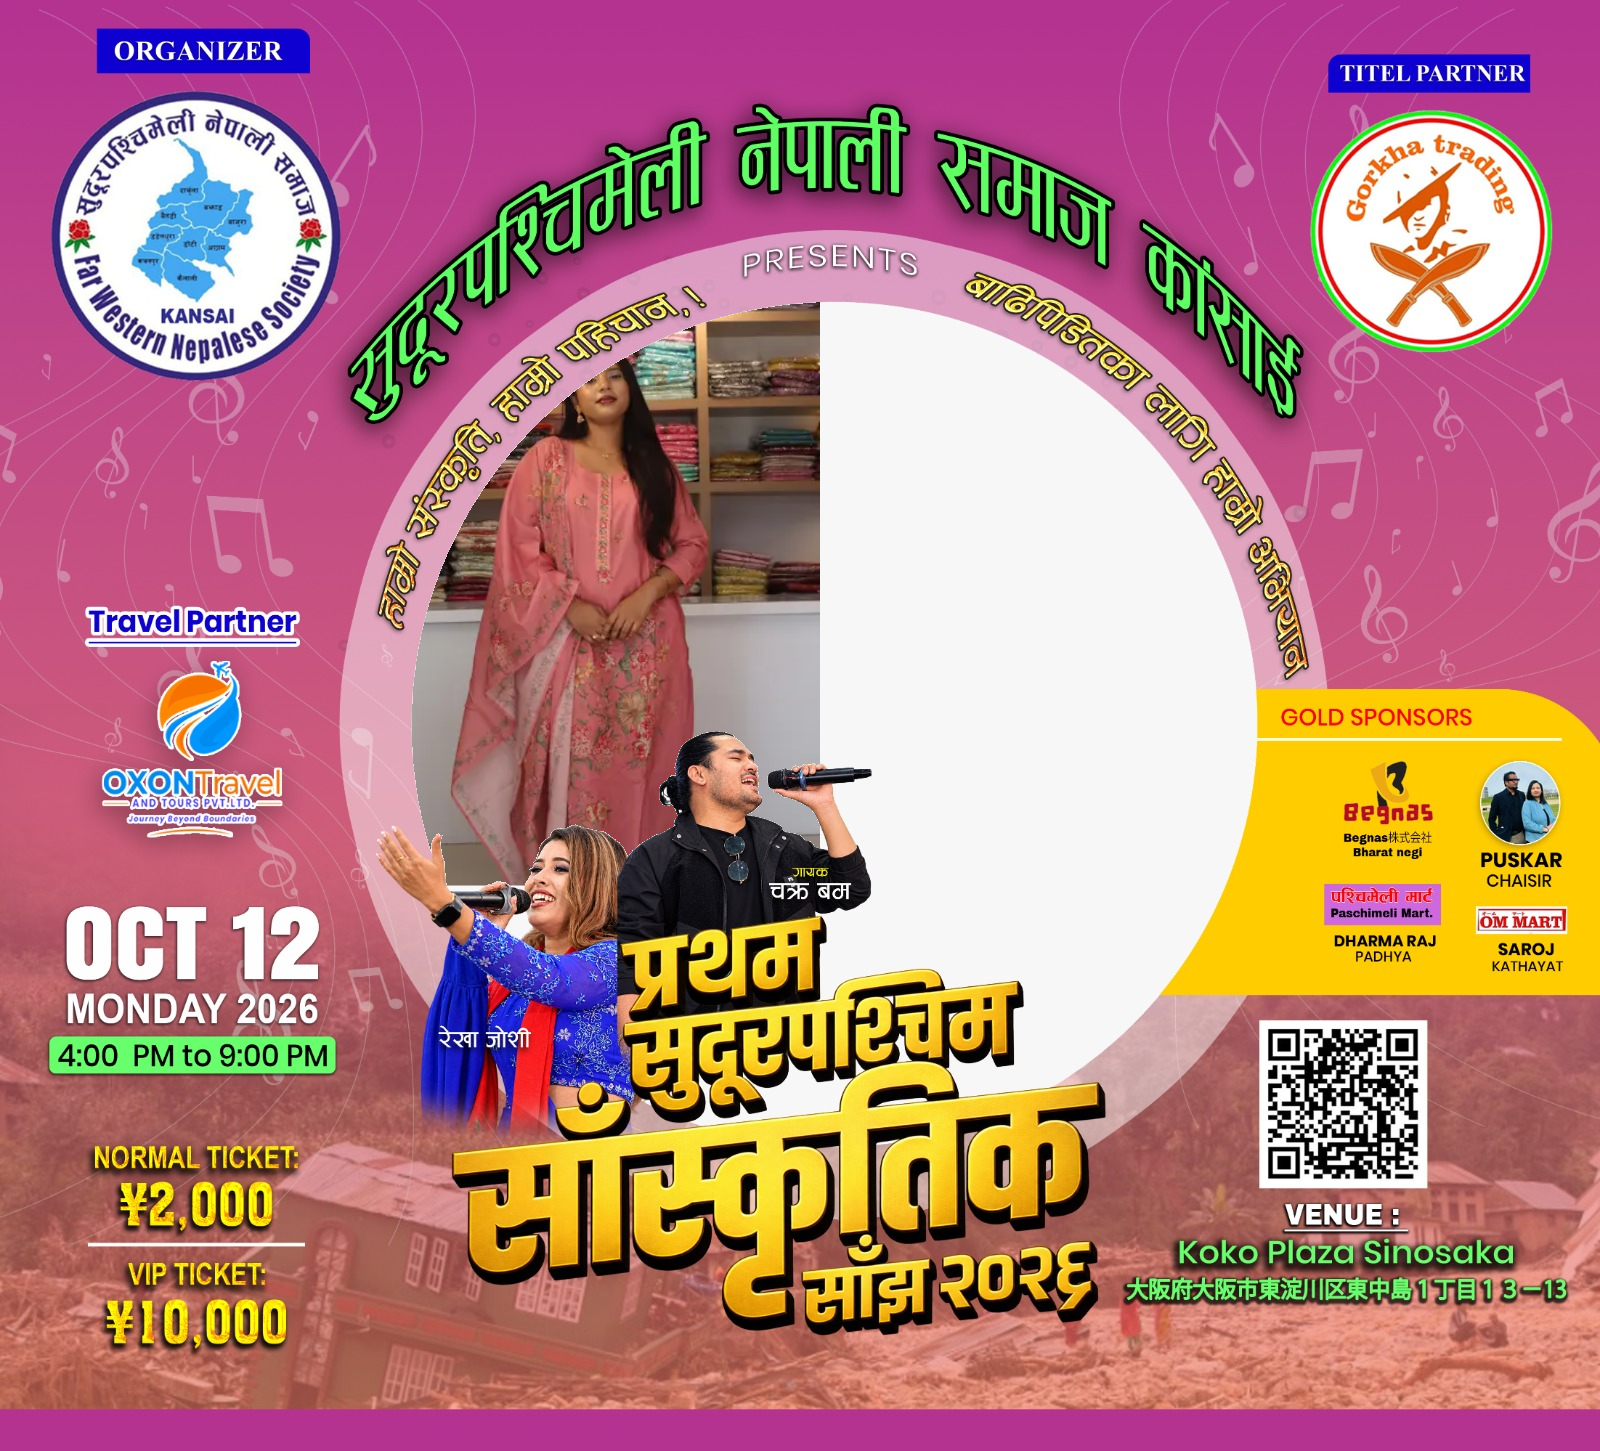
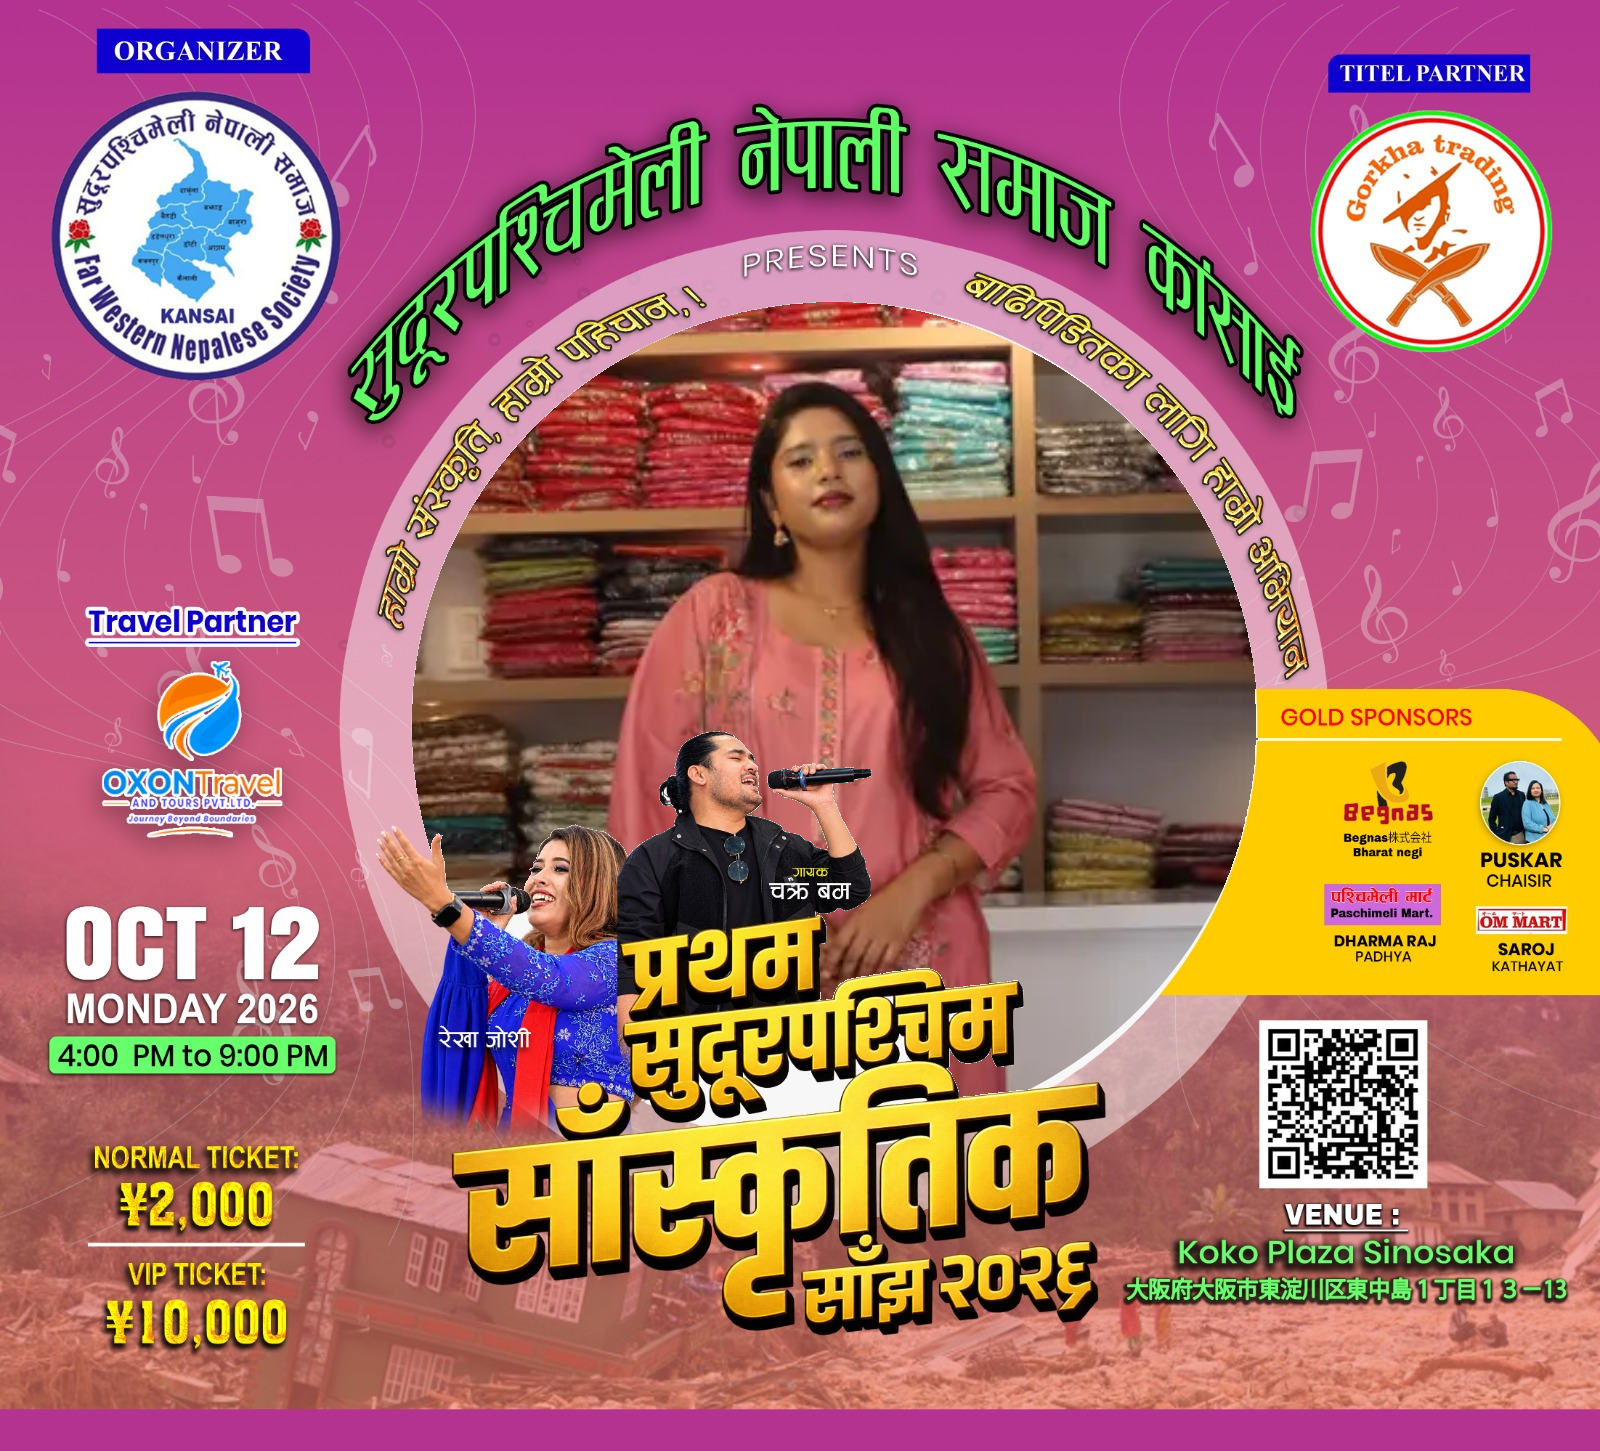
feat:final checkup

Changed region(s): [[0.25, 0.1861, 0.8125, 0.7753]]

diff --git a/script.js b/script.js
@@ -41,25 +41,28 @@
      shape  → "ellipse" | "rect" (rect uses rounded corners)
 ============================================================ */
 const CONFIG = {
-  posterSrc: 'image.png',
+  posterSrc: 'pdf.png',
 
   /**
-   * photoArea — bounding box of the empty photo slot.
-   * All values are in the ORIGINAL (natural) poster pixel space.
-   *
-   * These numbers are tuned for the generated "Special Event" poster
-   * where the oval sits centre-top.  Adjust if you use a different image.
+   * photoArea — bounding box of the photo slot.
+   * All values are in the ORIGINAL (5298 × 4804) poster pixel space.
    */
   photoArea: {
-    x:      380,   // px from left  in original poster
-    y:      300,   // px from top   in original poster
-    width:  880,   // px wide
-    height: 840,   // px tall
+    x:      1377,  // px from left in pdf.png
+    y:       990,  // px from top in pdf.png
+    width:  2786,  // px wide
+    height: 2780,  // px tall
     shape:  'ellipse',
     /** Corner radius (only used when shape === 'rect') */
     radius: 40,
   },
 };
+
+/**
+ * PHOTO_MASK_OVERLAP — extra pixels added to the photo clip ellipse radius
+ * so the photo extends slightly under the poster frame border.
+ */
+const PHOTO_MASK_OVERLAP = 10;
 
 /* ============================================================
    2. APPLICATION STATE
@@ -276,28 +279,16 @@ function renderPreview() {
 
   ctx.clearRect(0, 0, W, H);
 
-  // --- Pass 1: User photo is drawn FIRST as the bottom layer ---
-  // But we need the poster background too. Strategy:
-  // a) draw poster fully
-  // b) overwrite oval area with user photo
-  // c) composite poster overlay (oval punched out) on top
-
-  // Step A: Full poster background
-  if (state.posterImg) {
-    ctx.drawImage(state.posterImg, 0, 0, W, H);
-  }
-
-  // Step B: User photo clipped to oval (overwrites grey fill)
+  // 1. User photo is drawn in the background (clipped to the frame area)
   if (state.userImg) {
     drawClippedPhoto(ctx);
   }
 
-  // Step C: Poster overlay with oval punched out
-  // This lets the ornate golden frame ring sit ON TOP of the photo
-  // while the interior of the oval shows the user's photo through.
-  if (state.userImg && state.posterImg) {
-    const overlay = getPosterOverlayCanvas();
-    ctx.drawImage(overlay, 0, 0);
+  // 2. Poster overlay (pdf.png) is drawn ON TOP in the foreground.
+  // Since pdf.png has a transparent cutout for the photo area, the user's photo
+  // shows through clearly while singers, text, titles, and borders sit on top.
+  if (state.posterImg) {
+    ctx.drawImage(state.posterImg, 0, 0, W, H);
   }
 }
 
@@ -323,17 +314,21 @@ function getPosterOverlayCanvas() {
   const oc  = document.createElement('canvas');
   oc.width  = W;
   oc.height = H;
-  const oc_ctx = oc.getContext('2d');
+  const oc_ctx = oc.getContext('2d', { willReadFrequently: true });
 
   // Draw the full poster
   oc_ctx.drawImage(state.posterImg, 0, 0, W, H);
 
-  // Remove only the connected white background. The performers and headline
-  // overlap the circle, so cutting out the entire shape would erase them too.
+  // Remove the white placeholder inside the circle using flood-fill.
+  // This preserves singers/text that overlap the circle boundary while
+  // only clearing connected white pixels from the placeholder area.
   if (area.shape === 'ellipse') {
     const imageData = oc_ctx.getImageData(0, 0, W, H);
     const pixels = imageData.data;
-    const visited = new Uint8Array(W * H);
+    const cleared = new Uint8Array(W * H);   // tracks which pixels we cleared
+
+    // --- Pass 1: Flood-fill from centre, threshold 220 (safe for singers) ---
+    const FILL_THRESHOLD = 220;
     const stack = [
       Math.floor(area.x + area.width / 2),
       Math.floor(area.y + area.height / 2),
@@ -346,21 +341,68 @@ function getPosterOverlayCanvas() {
     while (stack.length) {
       const y = stack.pop();
       const x = stack.pop();
-      if (x < area.x || x >= area.x + area.width || y < area.y || y >= area.y + area.height) continue;
+      if (x < area.x || x >= area.x + area.width ||
+          y < area.y || y >= area.y + area.height) continue;
 
       const index = y * W + x;
-      if (visited[index]) continue;
-      visited[index] = 1;
+      if (cleared[index]) continue;
 
       const ellipseX = (x - cx) / rx;
       const ellipseY = (y - cy) / ry;
       if (ellipseX * ellipseX + ellipseY * ellipseY > 1) continue;
 
-      const pixelIndex = index * 4;
-      if (pixels[pixelIndex] < 220 || pixels[pixelIndex + 1] < 220 || pixels[pixelIndex + 2] < 220) continue;
+      const pi = index * 4;
+      if (pixels[pi] < FILL_THRESHOLD ||
+          pixels[pi + 1] < FILL_THRESHOLD ||
+          pixels[pi + 2] < FILL_THRESHOLD) continue;
 
-      pixels[pixelIndex + 3] = 0;
+      cleared[index] = 1;
+      pixels[pi + 3] = 0;   // make transparent
       stack.push(x - 1, y, x + 1, y, x, y - 1, x, y + 1);
+    }
+
+    // --- Pass 2: Edge alpha-blend — fade anti-aliased fringe pixels.
+    //     Only targets pixels where min(R,G,B) > 200 (truly near-white).
+    //     This safely ignores skin tones (min channel typically < 150)
+    //     while catching the white→poster anti-aliased blend pixels.
+    //     Run 2 iterations to erode ~2 px of halo. ---
+    for (let iter = 0; iter < 2; iter++) {
+      const newClears = [];
+      for (let y = Math.max(0, Math.floor(area.y));
+           y < Math.min(H, Math.ceil(area.y + area.height)); y++) {
+        for (let x = Math.max(0, Math.floor(area.x));
+             x < Math.min(W, Math.ceil(area.x + area.width)); x++) {
+          const idx = y * W + x;
+          if (cleared[idx]) continue;
+
+          // Must be inside the ellipse
+          const ex = (x - cx) / rx;
+          const ey = (y - cy) / ry;
+          if (ex * ex + ey * ey > 1) continue;
+
+          // Check if any 4-neighbour is already cleared
+          const hasNeighbour =
+            (x > 0          && cleared[idx - 1]) ||
+            (x < W - 1      && cleared[idx + 1]) ||
+            (y > 0          && cleared[idx - W]) ||
+            (y < H - 1      && cleared[idx + W]);
+          if (!hasNeighbour) continue;
+
+          const pi = idx * 4;
+          const r = pixels[pi], g = pixels[pi + 1], b = pixels[pi + 2];
+          const minCh = Math.min(r, g, b);
+
+          // Only affect truly near-white pixels (preserves skin/clothes)
+          if (minCh > 200) {
+            newClears.push(idx);
+          }
+        }
+      }
+      for (const idx of newClears) {
+        cleared[idx] = 1;
+        pixels[idx * 4 + 3] = 0;
+      }
+      if (newClears.length === 0) break;
     }
 
     oc_ctx.putImageData(imageData, 0, 0);
@@ -379,7 +421,7 @@ function getPosterOverlayCanvas() {
     oc_ctx.globalCompositeOperation = 'source-over';
   }
 
-  _overlayCanvas  = oc;
+  _overlayCanvas    = oc;
   _overlayPosterSrc = CONFIG.posterSrc;
   return oc;
 }
@@ -400,22 +442,24 @@ function drawClippedPhoto(targetCtx) {
   targetCtx.save();
 
   // --- Build the clip path ---
+  // The clip ellipse is expanded by PHOTO_MASK_OVERLAP px so the photo
+  // extends slightly underneath the poster's boundary ring.  This hides
+  // any anti-aliased white/light edge pixels (the "white halo" fix).
   targetCtx.beginPath();
 
   if (area.shape === 'ellipse') {
-    // Canvas ellipse: centre, radii x/y, rotation, startAngle, endAngle
-    targetCtx.ellipse(
-      area.x + area.width  / 2,   // cx
-      area.y + area.height / 2,   // cy
-      area.width  / 2,            // rx
-      area.height / 2,            // ry
-      0,                          // rotation
-      0, Math.PI * 2              // full circle
-    );
+    const cx = area.x + area.width  / 2;
+    const cy = area.y + area.height / 2;
+    const rx = area.width  / 2 + PHOTO_MASK_OVERLAP;
+    const ry = area.height / 2 + PHOTO_MASK_OVERLAP;
+    targetCtx.ellipse(cx, cy, rx, ry, 0, 0, Math.PI * 2);
   } else {
-    // Rounded rectangle
-    const r = area.radius || 0;
-    const x = area.x, y = area.y, w = area.width, h = area.height;
+    // Rounded rectangle — expand by overlap on all sides
+    const ol = PHOTO_MASK_OVERLAP;
+    const r  = area.radius || 0;
+    const x  = area.x - ol, y = area.y - ol;
+    const w  = area.width  + ol * 2;
+    const h  = area.height + ol * 2;
     targetCtx.moveTo(x + r, y);
     targetCtx.arcTo(x + w, y,     x + w, y + h, r);
     targetCtx.arcTo(x + w, y + h, x,     y + h, r);
@@ -615,18 +659,15 @@ function exportPoster() {
   const ec = exportCanvas.getContext('2d');
   ec.clearRect(0, 0, state.posterW, state.posterH);
 
-  // 1. Draw full poster as background (fills entire canvas including behind oval)
-  ec.drawImage(state.posterImg, 0, 0, state.posterW, state.posterH);
-
-  // 2. Draw user photo clipped to the oval mask on top of the background
+  // 1. Draw user photo clipped to the oval mask in the background
   if (state.userImg) {
     drawClippedPhoto(ec);
   }
 
-  // 3. Draw the poster overlay (oval punched out) so the ornate frame ring
-  //    sits on top of the photo while the oval interior shows the photo clearly.
-  const overlay = getPosterOverlayCanvas();
-  ec.drawImage(overlay, 0, 0);
+  // 2. Draw poster overlay (pdf.png) on top in the foreground
+  if (state.posterImg) {
+    ec.drawImage(state.posterImg, 0, 0, state.posterW, state.posterH);
+  }
 
   return exportCanvas.toDataURL('image/png');
 }

diff --git a/index.html b/index.html
@@ -72,7 +72,7 @@
 
           <!-- Poster preview with oval indicator -->
           <div class="poster-preview-wrap" id="posterPreviewWrap1">
-            <img src="image.png" alt="प्रथम सुदूरपश्चिम सांस्कृतिक साँझ २०२६ poster" class="poster-preview-img"
+            <img src="pdf.png" alt="प्रथम सुदूरपश्चिम सांस्कृतिक साँझ २०२६ poster" class="poster-preview-img"
               id="posterPreviewImg" />
             <div class="photo-area-indicator" id="photoAreaIndicator" title="तपाईंको फोटो यहाँ देखिनेछ"></div>
           </div>
@@ -177,8 +177,10 @@
       </div>
       <a class="credit-whatsapp-btn" href="https://wa.me/9779860056658" target="_blank" rel="noopener noreferrer">
         <svg class="wa-icon-svg" viewBox="0 0 24 24" fill="currentColor">
-          <path d="M17.472 14.382c-.297-.149-1.758-.867-2.03-.967-.273-.099-.471-.148-.67.15-.197.297-.767.966-.94 1.164-.173.199-.347.223-.644.075-.297-.15-1.255-.463-2.39-1.475-.883-.788-1.48-1.761-1.653-2.059-.173-.297-.018-.458.13-.606.134-.133.298-.347.446-.52.149-.174.198-.298.298-.497.099-.198.05-.371-.025-.52-.075-.149-.669-1.612-.916-2.207-.242-.579-.487-.5-.669-.51-.173-.008-.371-.01-.57-.01-.198 0-.52.074-.792.372-.272.297-1.04 1.016-1.04 2.479 0 1.462 1.065 2.875 1.213 3.074.149.198 2.096 3.2 5.077 4.487.709.306 1.262.489 1.694.625.712.227 1.36.195 1.871.118.571-.085 1.758-.719 2.006-1.413.248-.694.248-1.289.173-1.413-.074-.124-.272-.198-.57-.347z"/>
-          <path d="M12 0C5.373 0 0 5.373 0 12c0 2.127.558 4.126 1.534 5.858L.057 23.486a.5.5 0 0 0 .611.61l5.78-1.514A11.945 11.945 0 0 0 12 24c6.627 0 12-5.373 12-12S18.627 0 12 0zm0 22c-1.893 0-3.668-.525-5.184-1.437l-.371-.22-3.833 1.004 1.022-3.736-.242-.384A9.944 9.944 0 0 1 2 12C2 6.477 6.477 2 12 2s10 4.477 10 10-4.477 10-10 10z"/>
+          <path
+            d="M17.472 14.382c-.297-.149-1.758-.867-2.03-.967-.273-.099-.471-.148-.67.15-.197.297-.767.966-.94 1.164-.173.199-.347.223-.644.075-.297-.15-1.255-.463-2.39-1.475-.883-.788-1.48-1.761-1.653-2.059-.173-.297-.018-.458.13-.606.134-.133.298-.347.446-.52.149-.174.198-.298.298-.497.099-.198.05-.371-.025-.52-.075-.149-.669-1.612-.916-2.207-.242-.579-.487-.5-.669-.51-.173-.008-.371-.01-.57-.01-.198 0-.52.074-.792.372-.272.297-1.04 1.016-1.04 2.479 0 1.462 1.065 2.875 1.213 3.074.149.198 2.096 3.2 5.077 4.487.709.306 1.262.489 1.694.625.712.227 1.36.195 1.871.118.571-.085 1.758-.719 2.006-1.413.248-.694.248-1.289.173-1.413-.074-.124-.272-.198-.57-.347z" />
+          <path
+            d="M12 0C5.373 0 0 5.373 0 12c0 2.127.558 4.126 1.534 5.858L.057 23.486a.5.5 0 0 0 .611.61l5.78-1.514A11.945 11.945 0 0 0 12 24c6.627 0 12-5.373 12-12S18.627 0 12 0zm0 22c-1.893 0-3.668-.525-5.184-1.437l-.371-.22-3.833 1.004 1.022-3.736-.242-.384A9.944 9.944 0 0 1 2 12C2 6.477 6.477 2 12 2s10 4.477 10 10-4.477 10-10 10z" />
         </svg>
         <div class="wa-btn-content">
           <span class="wa-number">9860056658</span>

diff --git a/style.css b/style.css
@@ -311,6 +311,7 @@ img { display: block; max-width: 100%; }
   width: 100%;
   border-radius: var(--radius-lg);
   overflow: hidden;
+  background: #ffffff;
   box-shadow: 0 4px 24px rgba(0,0,0,0.12);
   margin-bottom: 20px;
 }
